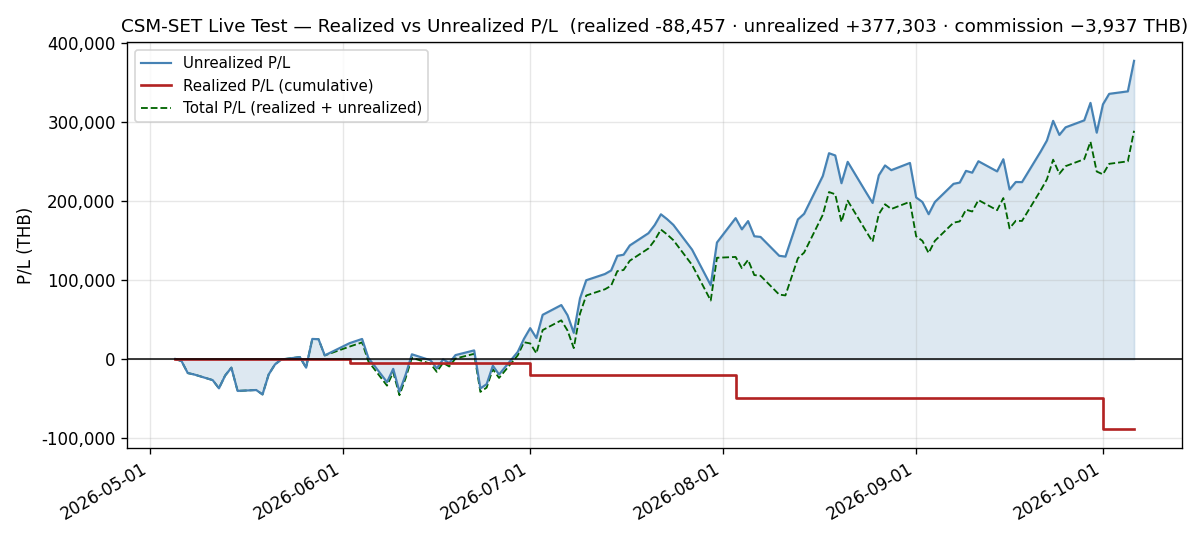
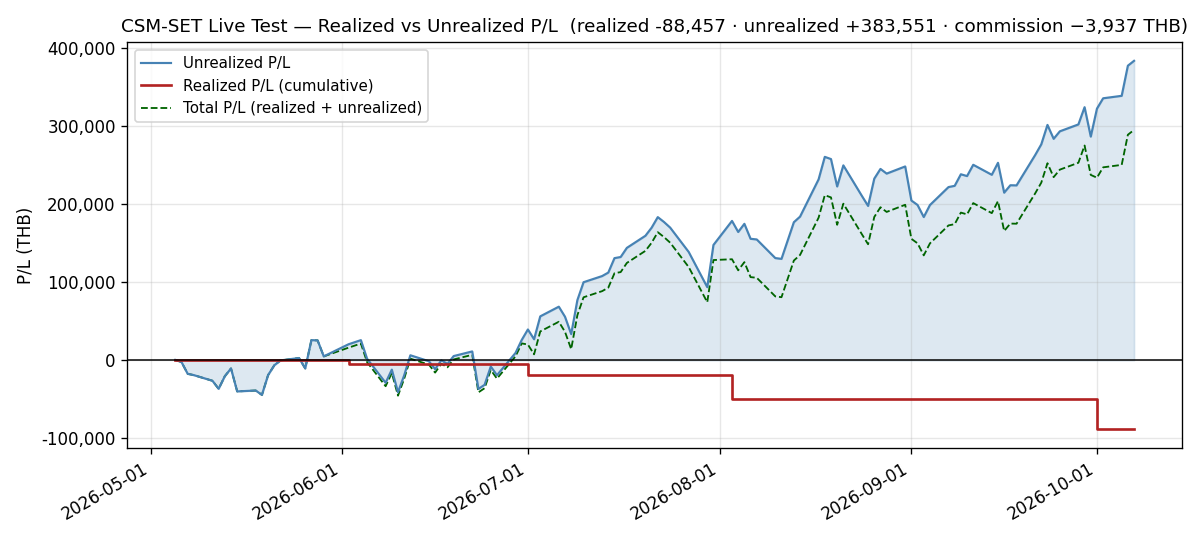
docs(live-test): add daily log for 2026-10-07 — a second NAV high; KCE's U.PL passes +100%; ETRON's excess narrows to 19,320.64
NAV 1,413,483.89, +6,248.00 (+0.4440%), a second consecutive live-test high; Total Return on NAV
+26.20%; 5 up / 4 down / 1 flat. KCE closed at 79.75 (U.PL +104.14%, the first above +100% of any
holding since 2026-08-03) and is 4,672.58 THB inside the 15% ceiling; EPG +4.76% to 6.60, its highest
close since 2026-08-03. Accepted D2 breaches: ETRON 36.3669% (19,320.64 over, narrowed), CNT 4.2491%
(10,614.19 under, widened on a flat CNT), TK-0279. pnl.csv to 107 rows; total_pl at a series maximum
for a second session. Every figure is pre-registration history, seen, not scored.

Claude-Session: https://claude.ai/code/session_01VKyqnmKmz6Hh9ErHRFMhFr

diff --git a/docs/live-test/daily/2026-10-07.md b/docs/live-test/daily/2026-10-07.md
@@ -1,0 +1,171 @@
+# Daily Log — 2026-10-07 (Wednesday)
+
+**As of:** 2026-10-07, Asia/Bangkok
+**Phase:** C — Extended Observation
+**Day:** 108 / 55 trading days remaining in 2026
+**Status:** 🔴 **PRE-REGISTRATION HISTORY — SEEN, NOT SCORED.** The operator's 2026-09-11 forward-only decision stands and **no scoring criteria have been pre-registered since**, so every figure below carries that label. 🟢 **NAV closes at a new live-test high of 1,413,483.89 THB, up +6,248.00 (+0.4440%)** with no trades — a second consecutive high. Total Return on NAV is **+26.20%**. Breadth is **5 up, 4 down, 1 flat** against a SET that rose **+0.1523%**. 🟢 **KCE +2.24% closed at 79.75 and its U.PL reached +104.14%, the first above +100% of any holding since 2026-08-03**; **EPG +4.76% closed at 6.60, its highest close since 2026-08-03**, and supplied 83.07% of the day. 🔴 **The accepted ETRON violation narrowed to 19,320.64 THB over the 35% cap (36.3669%), and CNT's widened to 10,614.19 THB under the 5% floor (4.2491%) on a day CNT did not move.**
+
+---
+
+## Execution Summary
+
+**No trades today.** The October rotation was executed at the **2026-10-01 ATO** (SELL MGC, BUY CNT; `configs/live_portfolio.yaml` at `715eeb3`), so the file is unchanged since then and remains valid. Realized P/L for the session is **0.00 THB** and no commission was paid. **Neither end of the band creates a trade, and neither does the sector cap**: both are applied when the book is constructed, and there is no high-water-mark rule. The next rebalance evaluation is **2026-10-30**, fourteen sessions away.
+
+---
+
+## Portfolio Snapshot
+
+> 🔴 **Every figure in this section is PRE-REGISTRATION HISTORY — NOT SCORED.** It is produced from the **reconstructed series** (`csm.adapters.hooks._reconstruct_live_equity`, which reprices `configs/live_portfolio.yaml` against `data/processed/prices_latest.parquet`) and reconciled against **`db_gateway.daily_performance`**. Where a number below is quoted from a stored series, the series is named.
+
+`Avg Cost` is the commission-inclusive per-share basis carried from `configs/live_portfolio.yaml` (4-decimal precision); `Cost Basis = shares × Avg Cost`, and `U.PL % = MV / Cost Basis − 1`. Per-symbol values reproduce the broker statement exactly.
+
+| # | Symbol | Shares | Avg Cost | Last Price | Market Value (THB) | Cost Basis (THB) | U.PL % |
+|---|--------|-------:|---------:|-----------:|--------------------:|-----------------:|-------:|
+| 1 | KCE | 2,600 | 39.0655 | 79.75 | 207,350.00 | 101,570.30 | +104.14% |
+| 2 | GUNKUL | 30,800 | 2.9246 | 5.05 | 155,540.00 | 90,077.68 | +72.67% |
+| 3 | INSET | 42,000 | 3.0848 | 4.72 | 198,240.00 | 129,561.60 | +53.01% |
+| 4 | HANA | 3,000 | 35.8070 | 52.25 | 156,750.00 | 107,421.00 | +45.92% |
+| 5 | IRPC | 56,600 | 2.3037 | 3.06 | 173,196.00 | 130,389.42 | +32.83% |
+| 6 | EASTW | 24,000 | 4.2672 | 5.00 | 120,000.00 | 102,412.80 | +17.17% |
+| 7 | EPG | 17,300 | 5.9099 | 6.60 | 114,180.00 | 102,241.27 | +11.68% |
+| 8 | SMT | 20,400 | 5.8097 | 7.35 | 149,940.00 | 118,517.88 | +26.51% |
+| 9 | FORTH | 5,300 | 16.1270 | 14.50 | 76,850.00 | 85,473.10 | −10.09% |
+| 10 | CNT | 18,200 | 3.3456 | 3.30 | 60,060.00 | 60,889.92 | −1.36% |
+
+### Portfolio summary
+
+| Metric | Value |
+|--------|-------|
+| Total Cost Basis | 1,028,554.97 THB |
+| Total Market Value | 1,412,106.00 THB |
+| Unrealized P/L | +383,551.03 THB (+37.29%) |
+| Realized P/L (today) | **0.00 THB** |
+| Realized P/L (cumulative, since inception) | **−88,456.67 THB** |
+| Commission paid (cumulative) | **−3,936.97 THB** |
+
+### Account summary
+
+| Metric | Value |
+|--------|-------|
+| Remaining Cash | 1,377.89 THB |
+| Total NAV | 1,413,483.89 THB |
+| Total Return on NAV | +26.20% |
+
+> **Cost-basis note:** Total Cost Basis is unchanged at **1,028,554.97 THB** since the 2026-10-01 rotation, and the reconciliation delta against Σ per-symbol (`shares × avg_cost`, 4-dp) is **0.00 THB**.
+>
+> ⚠ **Above/below cost: 8 up / 2 down, unchanged**, with only **FORTH** and **CNT** below. 🟢 **KCE's +104.14% is the highest U.PL of any holding since 2026-08-03 and the first above +100% in that window**, past its own +99.66% of 2026-10-06. **EPG's +11.68%** is its highest since 2026-08-03, past the +8.29% of 2026-08-27. **FORTH recovered to −10.09%** from −13.81%.
+>
+> **Dispersion widened to 114.23pp** (KCE +104.14% to FORTH −10.09%), from 113.47pp: the leader KCE gained **4.48pp** of cost and the laggard FORTH gained **3.72pp**.
+>
+> **Total P/L check:** realized + unrealized = −88,456.67 + 383,551.03 = **+295,094.36 THB**, up from +288,846.36 by exactly the +6,248.00 session move.
+
+---
+
+## Day-over-Day Change (vs Tuesday October 6)
+
+| Symbol | Oct 6 Close | Oct 7 Close | Change | Change % | MV Contribution (THB) |
+|--------|------------:|------------:|-------:|---------:|----------------------:|
+| EPG | 6.30 | 6.60 | +0.30 | +4.76% | +5,190.00 |
+| KCE | 78.00 | 79.75 | +1.75 | +2.24% | +4,550.00 |
+| FORTH | 13.90 | 14.50 | +0.60 | +4.32% | +3,180.00 |
+| GUNKUL | 4.98 | 5.05 | +0.07 | +1.41% | +2,156.00 |
+| IRPC | 3.04 | 3.06 | +0.02 | +0.66% | +1,132.00 |
+| CNT | 3.30 | 3.30 | 0.00 | 0.00% | 0.00 |
+| EASTW | 5.05 | 5.00 | -0.05 | -0.99% | -1,200.00 |
+| INSET | 4.76 | 4.72 | -0.04 | -0.84% | -1,680.00 |
+| HANA | 53.25 | 52.25 | -1.00 | -1.88% | -3,000.00 |
+| SMT | 7.55 | 7.35 | -0.20 | -2.65% | -4,080.00 |
+| **Total** | | | | **+0.44%** | **+6,248.00** |
+
+**Breadth: 5 up, 4 down, 1 flat.**
+
+> The `Change %` on the Total row is the **market-value** change (+6,248.00 / 1,405,858.00 = +0.4444%), not the NAV change (+6,248.00 / 1,407,235.89 = +0.4440%). The two differ only because cash sits in the NAV denominator and not in the market-value one.
+
+**The risers' 16,208.00 outran the fallers' −9,960.00.** **EPG +4.76% (+5,190.00)** closed at **6.60, its highest close since 2026-08-03**, in its best session since 2026-08-26. **KCE +2.24% (+4,550.00)** closed at **79.75**, a third consecutive high since 2026-08-03, and **FORTH +4.32% (+3,180.00)** added to Tuesday's recovery. Against them, **SMT −2.65% (−4,080.00)**, its worst session since 2026-09-30, gave back part of Tuesday's +11.03%, and **HANA −1.88% (−3,000.00)** had its worst since 2026-10-02. **CNT closed unchanged at 3.30.** **The book rose +0.4440% against a SET that rose +0.1523%**, a **+0.2917pp** difference that is a same-session arithmetic result, not a performance comparison (Market Context).
+
+---
+
+## Market Context
+
+| Indicator | Value | Source |
+|-----------|-------|--------|
+| SET Index | 1,584.63 | tvkit (TradingView) |
+| SET Open / High / Low | 1,574.15 / 1,590.74 / 1,573.22 | tvkit |
+| SET 200-day SMA | 1,491.7173 | tvkit (TradingView) |
+| Regime Estimate | BULL | SET +6.23% above SMA200 |
+
+> ⚠ **This is context, NOT a benchmark comparison, and it must not be read as one.** `SET:SET` is a **price index**; the strategy series above is priced on **dividend-adjusted** bars (since `e04a292`, 2026-08-09). The two are not on the same basis, the difference is one-sided in the strategy's favour, and it is not small — measured 2026-09-11 over 2024-03-19 → 2026-09-10, the dividend adjustment is worth **+12.09 percentage points** on this universe, roughly **+4.8%/yr**. The engine's own benchmark loader is also given **no date bounds**, so it compares **600 index points — from 2024-04-18 in today's panel, a start that moves forward one session per session** — against a strategy series that starts at the 2026-10-01 `entry_date`. **No alpha, excess return or outperformance figure is computed anywhere in this log.**
+
+---
+
+## Regime State
+
+- **Detected regime:** BULL — SET (1,584.63) is above SMA200 (1,491.7173) by +6.2286%
+- **SMA200 position:** 1,491.7173 — SET closing at 1,584.63
+- **3-month return:** −1.65% (window-sensitive — see Notes)
+- **No regime-driven action.** The regime filter is evaluated at the month-end rebalance, not intra-month. The next evaluation is **2026-10-30**.
+
+**The SET path from the 2026-09-08 high reads 1,621.89 → 1,617.89 → 1,615.07 → 1,604.52 → 1,591.07 → 1,578.66 → 1,562.73 → 1,583.34 → 1,584.15 → 1,598.03 → 1,604.44 → 1,610.70 → 1,602.58 → 1,607.63 → 1,602.37 → 1,594.30 → 1,559.01 → 1,563.91 → 1,571.62 → 1,576.45 → 1,582.22 → 1,584.63** — a **+2.41 point, +0.1523%** session, a fifth consecutive rise, to the index's highest close since 2026-09-29, leaving it **−2.2973%** below the 2026-09-08 high. Today's range was **17.52 points**, the widest since 2026-09-30. **Cushion rose 6.1790% → 6.2286%, a +0.0496pp step**, as SMA200 rose again to **1,491.7173** (+1.5738). **A BULL→BEAR crossing needs the index 92.91 points lower — a further −5.86% at today's SMA200.**
+
+The 3-month figure fell from −0.71% to −1.65% on a rising session, because its start bar moved from 2026-07-02 (1,593.56) to 2026-07-03 (1,611.28).
+
+---
+
+## Sector Concentration
+
+Groupings are those of the 2026-10-01 rotation (CONS for CNT, SET-official) and are unchanged today; percentages are directly comparable to the prior session for every sleeve.
+
+| Sector | Market Value (THB) | % of NAV | Limit | Status |
+|--------|--------------------:|---------:|-------|--------|
+| Energy & Utilities (ENERG) | 448,736 | 31.7468% | 35% | OK — 45,983.36 THB of headroom |
+| Electronic Components (ETRON) | 514,040 | 36.3669% | 35% | 🔴 **OVER — 19,320.64 THB, accepted known violation** |
+| ICT | 275,090 | 19.4618% | 35% | OK |
+| Construction Materials (CONMAT) | 114,180 | 8.0779% | 35% | OK |
+| Construction Services (CONS) | 60,060 | 4.2491% | 5% floor | 🔴 **UNDER — 10,614.19 THB, accepted known violation** |
+
+🔴 **ETRON narrowed its excess for the first time since 2026-10-02.** It fell **−0.3412pp to 36.3669%**, and the excess fell **24,037.44 → 19,320.64 THB**: the sleeve's market value fell 2,530.00 (KCE +4,550.00 against HANA −3,000.00 and SMT −4,080.00) while the cap rose 2,186.80 with NAV. [[TK-0279]]
+
+🔴 **CNT's gap widened on a flat CNT, to the deepest of the breach.** CONS fell **−0.0188pp to 4.2491%**, the lowest weight of the breach, and the gap grew **10,301.79 → 10,614.19 THB** — the whole 312.40 is the floor rising with NAV. **CNT clears at 3.9139, +18.60%.** [[TK-0279]]
+
+**CONMAT rose +0.3329pp to 8.0779%** on EPG. **ICT rose +0.0201pp to 19.4618%** on FORTH, against INSET's fall. **ENERG rose +0.0074pp to 31.7468%** on GUNKUL and IRPC, against EASTW's fall. The two large sleeves hold **68.1137% of NAV** together.
+
+**At the ceiling end, KCE is the largest position** — **14.6694%**, 4,672.58 THB inside the 15% ceiling, over at **81.8643 (+2.65%)** — 9,110.00 THB above INSET, at **14.0249%**, 13,782.58 THB inside, over at **5.1061 (+8.18%)**. 🟢 **At the floor end, FORTH is 5.4369%, 6,175.81 THB above the 5% floor, and goes under at 13.2734 (−8.46%).**
+
+---
+
+## Risk Notes
+
+1. 🔴 **PRE-REGISTRATION HISTORY — SEEN, NOT SCORED (operator decision, 2026-09-11, unchanged).** The track record restarts forward-only, and **scoring criteria are still pending an operator pre-registration**: checked for this log across the strategy repo, the ticket store and the umbrella, and **none has been recorded**. The EMA100 definition remains deferred to that pre-registration (operator decision D1, 2026-09-30).
+2. 🟢 **NAV set a second consecutive live-test high: +6,248.00 (+0.4440%) to 1,413,483.89**, above the 2026-10-06 high in `daily_performance`. Total Return on NAV is **+26.20%**.
+3. 🔴 **ACCEPTED KNOWN VIOLATION — ETRON 36.3669%, 19,320.64 THB over the 35% cap** (operator decision D2). It narrowed from 24,037.44 without a trade, as SMT and HANA fell. **No action is recommended and none has been sized.** [[TK-0279]]
+4. 🔴 **ACCEPTED KNOWN VIOLATION — CNT 4.2491%, 10,614.19 THB under the 5% floor and the whole CONS sleeve** (D2), **the deepest of the breach**. It widened from 10,301.79 on a day CNT closed unchanged; CNT clears at **3.9139 (+18.60%)**. [[TK-0279]]
+5. ⚠ **KCE IS 4,672.58 THB FROM THE 15% CEILING.** At **14.6694%** after a third consecutive high, it goes over at **81.8643 (+2.65%)**. A ceiling breach would sit outside D2, which named only CNT's floor breach and ETRON's cap breach; like every band breach, it would produce no trade before the 2026-10-30 construction. **No action is recommended and none has been sized.** [[TK-0279]]
+6. 🟢 **`equity_curve` and `daily_performance` agree on the new day**, both **1,413,483.89**. The 2026-10-01 rows still differ by 2,385.81 by design (post-trade against pre-trade).
+7. 🟢 **Today's `daily_return` (+0.4440%) equals this log's headline.** ⚠ `cumulative_return` is anchored to the 2026-10-01 `entry_date` and reads **+4.53%** against a true **+26.20%**, and `combined_drawdown` reads **0** — both the documented `entry_date` truncations, not new defects.
+8. 🟢 **Circuit-breaker buffer 24.72% of NAV.** The 5% breaker trips at **1,064,000 THB**; NAV sits **+349,483.89 above it**. **NAV is at its peak.** The rolling `circuit_breaker.trigger_threshold` is −10% over 60 days; 0.00% is clear.
+9. 🟢 **The refresh ran clean**: attempt 1 recovered all 201 universe symbols (`requested=201 recovered=201 still_failing=0`) in **124.395s**, and **no symbol failed** (`failures=0`, `held_symbols_failed=0`). The container has not restarted since the 2026-10-06 reboots.
+10. 🟢 **The uncredited dividend total holds at 8,927.00 THB** — KCE 1,560.00, INSET 2,100.00, MGC 2,208.00, FORTH 795.00, IRPC 2,264.00. **0.63% of NAV** and **3.03%** of the +295,094.36 total P/L. There is still no dividend-accrual path anywhere in the book. Carried to the operator's October decision.
+11. **INFRA (carried) — the container publishes `:8100` on all interfaces while private-mode auth is disabled.** `CSM_API_KEY` is absent from the container environment and `CSM_PUBLIC_MODE=false`. **Risk tier: low-moderate and LAN-scoped.** Two low-risk options, operator's call: bind to `127.0.0.1:8100:8000`, or set `CSM_API_KEY`. A recreate is required for the first and has not occurred. **Fortieth consecutive log.**
+12. ⚠ **DOC — the `csm-set-daily-log` skill's `daily_return` guidance remains stale.** Its Step 3 still calls the field *"an open defect, not yet fixed in code"*; **it was fixed 2026-09-02**. Today `daily_return` reads **+0.4440%** and agrees with this log's headline exactly. **Twenty-second log to carry this.**
+13. **Open decisions carried to the October evaluation (2026-10-30, fourteen sessions away)**: the EMA100 definition (D1), the drift question at every end of the bands (Risk Notes 3, 4, 5; [[TK-0279]]), fix-notional-not-shares, restate-vs-cutover for price history, and dividend accrual (Risk Note 10).
+
+---
+
+## Notes
+
+- **Scheduled refresh completed via APScheduler with zero failures.** `"Scheduled daily_refresh completed"` at **2026-10-07T11:02:06Z** (18:02 BKK) — the 18:00 cron firing, not a manual `POST /api/v1/scheduler/run/daily_refresh`. Receipt: `symbols_fetched=211, failures=0, duration_seconds=124.395, held_symbols_fetched=10, held_symbols_failed=0, retry_attempts_used=0, index_fetched=true`, corroborated by `results/.tmp/last_refresh.json`. The held phase ended `requested=10 recovered=10 still_failing=0` at 11:00:06Z. The next run is scheduled for **2026-10-08 18:00 +07**.
+- **The container has run since the 2026-10-06 reboots** (`StartedAt` 2026-10-06T03:46:34Z, no restart since; `Created` 2026-09-01, unchanged), and the host has not rebooted again (`uptime -s` 2026-10-06 10:46:02).
+- **`SET:THCOM` was fetched with 600 bars again.**
+- **The price panel and the prior log agree on all ten names**, so **nothing was restated**.
+- **The panel's row count fell 923 → 922**, every row still carries a 09:55 Bangkok stamp, and the column count is unchanged at **211**, with no duplicated session date.
+- **Row-integrity checks pass.** `db_csm_set.equity_curve` holds **exactly one row per trading day at `00:00:00+00`** — 107 rows, 107 dates, none off midnight — and today's row equals `daily_performance.total_value`.
+- **`configs/live_portfolio.yaml` is unchanged** since the 2026-10-01 rotation (`715eeb3`).
+- **The P/L identity holds and its residual is unchanged.** `realized_cum + unrealized − (NAV − starting_nav)` = −88,456.67 + 383,551.03 − 293,483.89 = **1,610.47 THB**, the value it stepped to at the 2026-10-01 rotation.
+- **Every figure was verified rather than asserted.** Σ position market value equals Total Market Value exactly (1,412,106.00); **Total NAV (1,413,483.89) equals `db_gateway.daily_performance.total_value` to the satang**; Σ (shares × price change) equals the market-value change (+6,248.00) exactly; the sector table sums to Total Market Value exactly; Σ per-symbol cost basis matches Total Cost Basis with a **0.00** delta; the position count is 10. All money arithmetic used `Decimal` with explicit half-up rounding (ETRON **36.3669%**, **19,320.64 THB** over the cap; CNT **4.2491%**, **10,614.19 THB** under a 70,674.19 floor, clearing at **3.9139**; FORTH **5.4369%**, under at **13.2734**; KCE **14.6694%**, over at **81.8643**; INSET **14.0249%**, over at **5.1061**).
+- **Realized P/L and commission ledger — both unchanged, no trades today.** Realized cumulative **−88,456.67 THB** (2026-06-02 −4,351.87 · 2026-07-01 −14,964.06 · 2026-08-03 −29,775.45 · 2026-10-01 −39,365.29). Commission cumulative **−3,936.97 THB**.
+- **Capital events to date, unchanged.** `starting_nav` 1,120,000 after 1,000,000 → 1,100,000 (2026-06-04, +100,000) → 1,120,000 (2026-08-03, +20,000). The 2026-10-01 rotation added no capital.
+- **Every superlative was computed, and each names its window.** EPG's and KCE's high closes, the KCE and EPG U.PL readings, KCE's +100% crossing and the best-since and worst-since dates are **since 2026-08-03**, checked against all 46 prior published logs and, for prices, against the panel from 2026-08-03. The CNT and CONS readings are measured over the breach that began on 2026-10-01. The peak comes from the full `db_gateway.daily_performance` series. The index figures are measured over bars fetched back to 2024-09-16.
+- **3-month return figure is window-sensitive.** −1.65% is measured over the trailing 66 bars from today's close (start bar 2026-07-03, 1,611.28) and moves materially with the start bar (Regime State). The regime estimate does not use it.
+- **Follow-ups for the next session (Thursday 2026-10-08 18:00 +07).** (a) KCE against the 15% ceiling — over at 81.8643; (b) ETRON against the 35% cap — 19,320.64 THB over; (c) CNT against the 5% floor — it clears at 3.9139; (d) FORTH against the 5% floor — under at 13.2734. **The four follow-ups from 2026-10-06 are closed above** — (a) Risk Note 3, (b) Risk Note 4, (c) Sector Concentration, (d) Risk Note 5 and Sector Concentration.
+- **Calendar.** 2026-10-07 was a trading session; the banked SET holiday calendar (`results/.tmp/set_holidays.json`, read at `captured_at 2026-10-07T11:17:22Z`) lists the next 2026 closure as **2026-10-13**, and the October evaluation, its last trading day, is **2026-10-30**. No trading hours are stated anywhere in this log.
+- Data fetched via tvkit (TradingView, free tier) — all 10 held-symbol prices from the 18:00 BKK scheduled-cron refresh; SET Index context anchored explicitly to the 2026-10-07 bar. ⚠ **The vendor back-adjusts a symbol's entire history on an ex-dividend date**, so any prior-session price quoted here is the vendor's *current* view of that session and not necessarily what was published at the time.

diff --git a/docs/live-test/graphs/README.md b/docs/live-test/graphs/README.md
@@ -3,7 +3,7 @@
 _🟢 **All four PNGs are on ONE date — the September month-end, 2026-09-30.** The three **NAV** charts
 (`equity_curve`, `drawdown`, `monthly_returns`) were regenerated on 2026-09-30 from `nav_actual.csv` /
 `nav_twr.csv` extended to **102 points** (2026-05-04 → 2026-09-30). `pnl_realized_unrealized.png` is newer:
-regenerated on 2026-10-06 from `pnl.csv` (**106 rows**, through 2026-10-06; its newest realized step is the 2026-10-01 rotation's). ⚠ **The September rows of the two NAV CSVs
+regenerated on 2026-10-07 from `pnl.csv` (**107 rows**, through 2026-10-07; its newest realized step is the 2026-10-01 rotation's). ⚠ **The September rows of the two NAV CSVs
 come from `db_gateway.daily_performance`, not `equity_curve`** — IRPC's 2026-09-09 restatement rewrote the
 `equity_curve` rows it would otherwise have supplied; see the 2026-09-30 History entry. `pnl.csv` is built
 from the daily logs' figures (the un-restated `daily_performance` basis), so it does not agree with
@@ -241,14 +241,26 @@ restatement has rewritten `equity_curve` rows inside the month being appended, *
 | `monthly_returns.png` | May **+0.33%** · Jun **+1.44%** · Jul **+9.53%** · Aug **+5.68%** · Sep **+2.90%** (no flow in September, so the TWR and actual-NAV figures agree) |
 | **August bar is the TWR figure** | **+5.68%**, NOT the reported +7.40% and NOT the ex-injection +5.77%. Feeding `nav_actual.csv` instead reproduces the documented failure mode — **Jun +11.62%** and Aug +7.40% |
 | June bar vs the June review | must read **+1.44%**, not +11.62% |
-| `pnl_realized_unrealized.png` *(the 2026-10-06 PNG, through 10-06)* | realized **−88,456.67** · unrealized **+377,303.03** · commission **−3,936.97** THB; the realized line is **flat except at 2026-06-02, 2026-07-01, 2026-08-03 and 2026-10-01** — **four** steps. *(The 2026-10-05 PNG read the same realized and commission with unrealized +338,709.03 at 105 points; the 2026-10-02 PNG +335,559.03 at 104; the 2026-10-01 PNG +322,278.03 at 103.)* *(The 2026-08-31 PNG read:* realized **−49,091.38** · unrealized **+248,232.35** · commission **−3,735.16** THB; the realized line is **flat except at 2026-06-02, 2026-07-01 and 2026-08-03** — **three** steps.) *(The superseded 2026-08-28 render showed −49,091.38 / +239,078.35 at 79 points; the 2026-08-27 one showed −49,091.38 / +245,069.35 at 78 points; the 2026-08-26 one showed −49,091.38 / +232,605.35 at 77 points; the 2026-08-25 one showed −49,091.38 / +197,671.35 at 76 points; the 2026-08-24 one showed −49,091.38 / +210,441.35 at 75 points; the 2026-08-21 one showed −49,091.38 / +249,619.35 at 74 points; the 2026-08-20 one showed −49,091.38 / +222,599.35 at 73 points; the 2026-08-19 one showed −49,091.38 / +257,693.35 at 72 points; the 2026-08-18 one showed −49,091.38 / +260,527.35 at 71 points; the 2026-08-17 one showed −49,091.38 / +231,713.35 at 70 points; the 2026-08-14 one −49,091.38 / +183,951.35 at 69 points; the 2026-08-12 one −49,091.38 / +129,844.35 at 67 points; the 2026-08-01 one −19,315.93 / +147,665.89 / −3,052.51 and only two steps.)* |
-| `pnl.csv` last row *(the CSV and the P/L PNG are in sync — see the header)* | 2026-10-06: realized **−88,456.67** · unrealized **+377,303.03** · total **+288,846.36** · commission **3,936.97** THB; **106 rows**, matching `equity_curve`'s 106 **in row count only** *(↻ this row read 2026-08-31 / 80 rows until 2026-10-02: the September daily runs extended the CSV without updating it; it is updated with each session's History entry since)* — the values diverge historically after the KCE, INSET, MGC *and* FORTH restatements (see the header caveat) |
+| `pnl_realized_unrealized.png` *(the 2026-10-07 PNG, through 10-07)* | realized **−88,456.67** · unrealized **+383,551.03** · commission **−3,936.97** THB; the realized line is **flat except at 2026-06-02, 2026-07-01, 2026-08-03 and 2026-10-01** — **four** steps. *(The 2026-10-06 PNG read the same realized and commission with unrealized +377,303.03 at 106 points; the 2026-10-05 PNG +338,709.03 at 105; the 2026-10-02 PNG +335,559.03 at 104; the 2026-10-01 PNG +322,278.03 at 103.)* *(The 2026-08-31 PNG read:* realized **−49,091.38** · unrealized **+248,232.35** · commission **−3,735.16** THB; the realized line is **flat except at 2026-06-02, 2026-07-01 and 2026-08-03** — **three** steps.) *(The superseded 2026-08-28 render showed −49,091.38 / +239,078.35 at 79 points; the 2026-08-27 one showed −49,091.38 / +245,069.35 at 78 points; the 2026-08-26 one showed −49,091.38 / +232,605.35 at 77 points; the 2026-08-25 one showed −49,091.38 / +197,671.35 at 76 points; the 2026-08-24 one showed −49,091.38 / +210,441.35 at 75 points; the 2026-08-21 one showed −49,091.38 / +249,619.35 at 74 points; the 2026-08-20 one showed −49,091.38 / +222,599.35 at 73 points; the 2026-08-19 one showed −49,091.38 / +257,693.35 at 72 points; the 2026-08-18 one showed −49,091.38 / +260,527.35 at 71 points; the 2026-08-17 one showed −49,091.38 / +231,713.35 at 70 points; the 2026-08-14 one −49,091.38 / +183,951.35 at 69 points; the 2026-08-12 one −49,091.38 / +129,844.35 at 67 points; the 2026-08-01 one −19,315.93 / +147,665.89 / −3,052.51 and only two steps.)* |
+| `pnl.csv` last row *(the CSV and the P/L PNG are in sync — see the header)* | 2026-10-07: realized **−88,456.67** · unrealized **+383,551.03** · total **+295,094.36** · commission **3,936.97** THB; **107 rows**, matching `equity_curve`'s 107 **in row count only** *(↻ this row read 2026-08-31 / 80 rows until 2026-10-02: the September daily runs extended the CSV without updating it; it is updated with each session's History entry since)* — the values diverge historically after the KCE, INSET, MGC *and* FORTH restatements (see the header caveat) |
 | The August regeneration *(**done** 2026-08-12, **superseded** by the 2026-08-14, 2026-08-17, 2026-08-18, 2026-08-19, 2026-08-20, 2026-08-21, 2026-08-24, 2026-08-25, 2026-08-26, 2026-08-27, 2026-08-28 and then the 2026-08-31 render)* | ✅ satisfied — the current PNG title reads `realized -49,091 · unrealized +248,232 · commission −3,735 THB`, the series ends 2026-08-31 at 80 points, and the realized line steps **three** times. Verified by eye against the rendered image, not only from the generator's stdout |
 | Only ONE PNG may change on a P/L regeneration | ✅ `gen_pnl_chart.py:118` writes `pnl_realized_unrealized.png` and nothing else. Checksum the four PNGs before and after: the three NAV charts must be **byte-identical** and keep their 2026-08-01 mtimes. Verified 2026-08-14, 2026-08-17, 2026-08-18, 2026-08-19, 2026-08-20, 2026-08-21, 2026-08-24, 2026-08-25, 2026-08-26, 2026-08-27, 2026-08-28 and 2026-08-31 — only the P/L PNG's hash moved on all twelve |
 | P/L reconciliation | `realized_cum + unrealized − (NAV − capital)` = **1,610.47** from 2026-10-01 (**1,610.27** for 2026-08-03 → 2026-09-30, **1,609.61** for 2026-05-29 → 2026-07-31), and constant *within* each era; the 2026-10-01 step is **+0.20**, CNT's 4-dp `avg_cost` rounding. A *drifting* residual means a realisation was missed; the one-time **+0.66** step at the rotation is 4-dp `avg_cost` rounding — see above |
 | `commission_cum` | rises **only on the 7 fill dates** (05-05, 06-02, 06-04, 06-05, 07-01, 08-03, **10-01**); a rise on any other day means a non-trading day was credited with a fill |
 
 ## History
+
+**`pnl.csv` extended through 2026-10-07** on 2026-10-07, appending the **2026-10-07** row — one row,
+the fourth session of the rotated book. `realized_cum` and `commission_cum` are unchanged (no trade since
+the 2026-10-01 rotation), so the whole movement is the unrealized leg (+377,303.03 → **+383,551.03**,
+a **+6,248.00** session). 🟢 **`total_pl` sets a series maximum for a second session at +295,094.36**,
+on a second consecutive NAV high, and `unrealized` sets its maximum for a fourth. The reconciliation
+residual holds at **1,610.47**. **`pnl_realized_unrealized.png` was regenerated in the same session**,
+so the two artifacts end together at **107 points**; the four PNGs were checksummed (md5) before and
+after and the three NAV charts are byte-identical (`drawdown` 02a92127…, `equity_curve` 7b1c0816…,
+`monthly_returns` a661bb50…), with only the P/L chart's hash moving (6df24aae… → **0caf6ee8…**). Every
+point in the series remains **pre-registration history — seen, not scored** under the operator
+decision of 2026-09-11; no scoring criteria have been pre-registered since.
 
 **`pnl.csv` extended through 2026-10-06** on 2026-10-06, appending the **2026-10-06** row — one row,
 the third session of the rotated book. `realized_cum` and `commission_cum` are unchanged (no trade since
